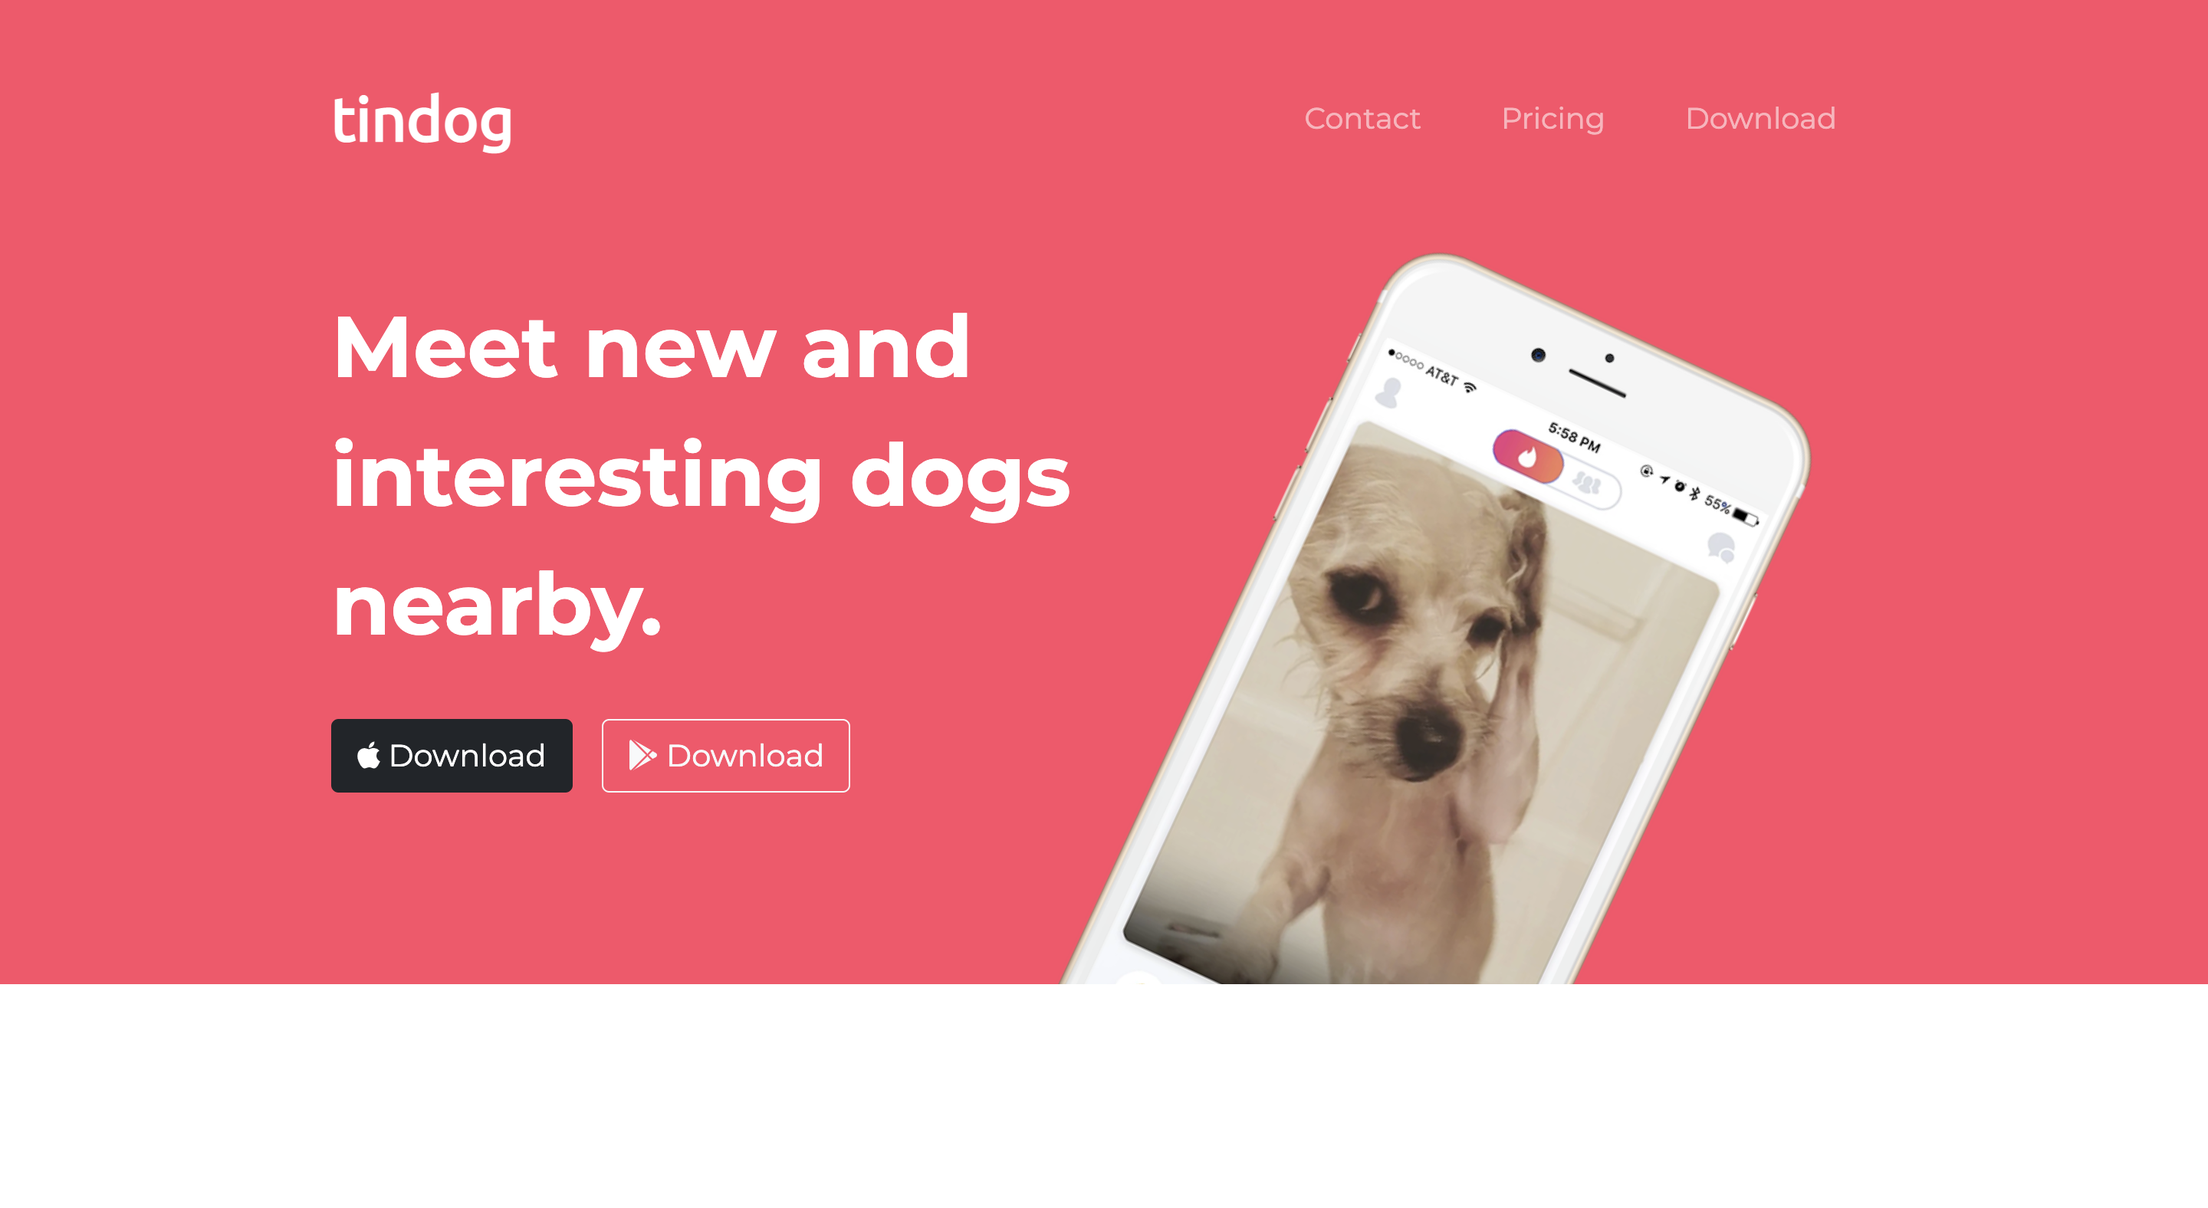
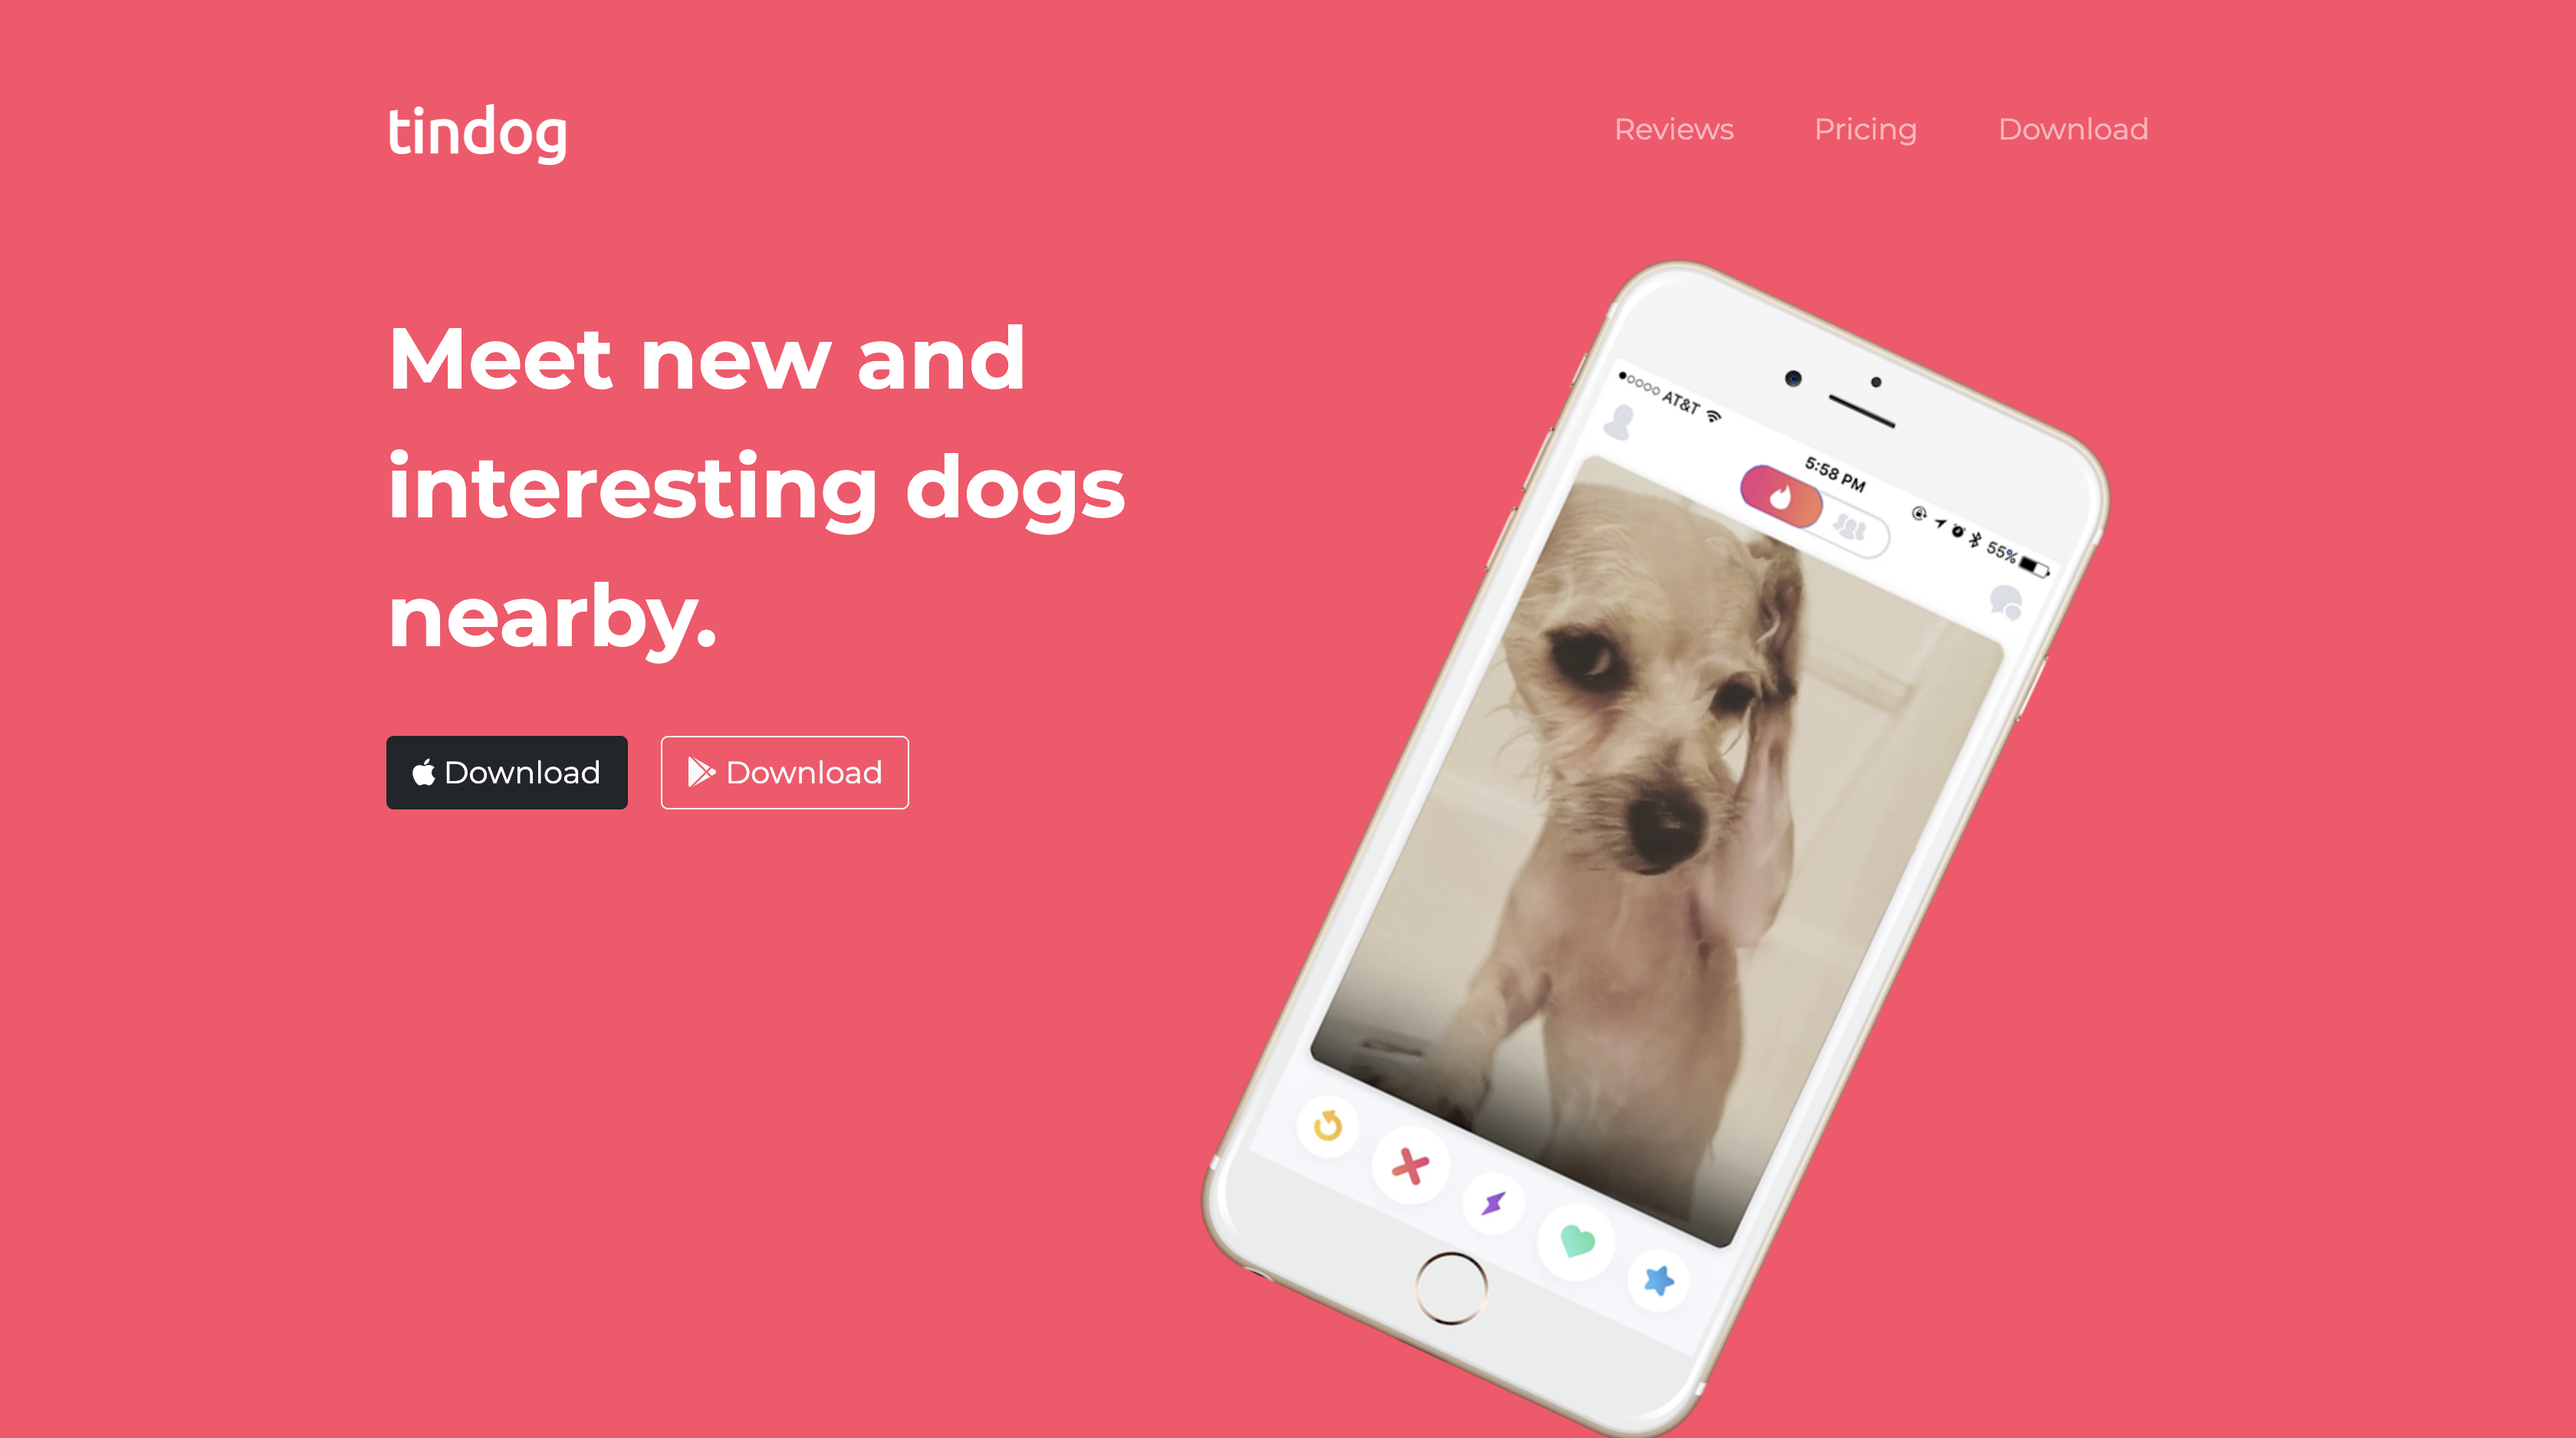
Sizing updates

diff --git a/tindog.html b/tindog.html
@@ -170,7 +170,7 @@
     <!-- Press -->
 
     <section class="colored-section" id="press">
-      <img class="press-logo" src="images/techcrunch.png" alt="tc-logo" />
+      <img class="press-logo" src="images/TechCrunch.png" alt="tc-logo" />
       <img class="press-logo" src="images/tnw.png" alt="tnw-logo" />
       <img
         class="press-logo"

diff --git a/assets/css/styles.css b/assets/css/styles.css
@@ -362,7 +362,7 @@ img {
 .tools-container {
   display: flex;
   align-self: center;
-  margin: 0 8%;
+  margin: 0 9%;
 }
 
 .tools .box-container {
@@ -391,8 +391,8 @@ img {
 
 .portfolio-container {
   align-self: center;
-  margin-left: 10%;
-  margin-right: 10%;
+  margin-left: 6%;
+  margin-right: 6%;
 }
 
 .portfolio .box-container {

diff --git a/tindogstyles.css b/tindogstyles.css
@@ -3,7 +3,12 @@ body {
   text-align: center;
 }
 
-h1, h2, h3, h4, h5, h6 {
+h1,
+h2,
+h3,
+h4,
+h5,
+h6 {
   font-family: "Montserrat";
   font-weight: bold;
 }
@@ -63,6 +68,7 @@ h1, h2, h3, h4, h5, h6 {
 #title .container-fluid {
   padding: 3% 15% 7%;
   text-align: left;
+  height: 100vh;
 }
 
 /* Title Image */
